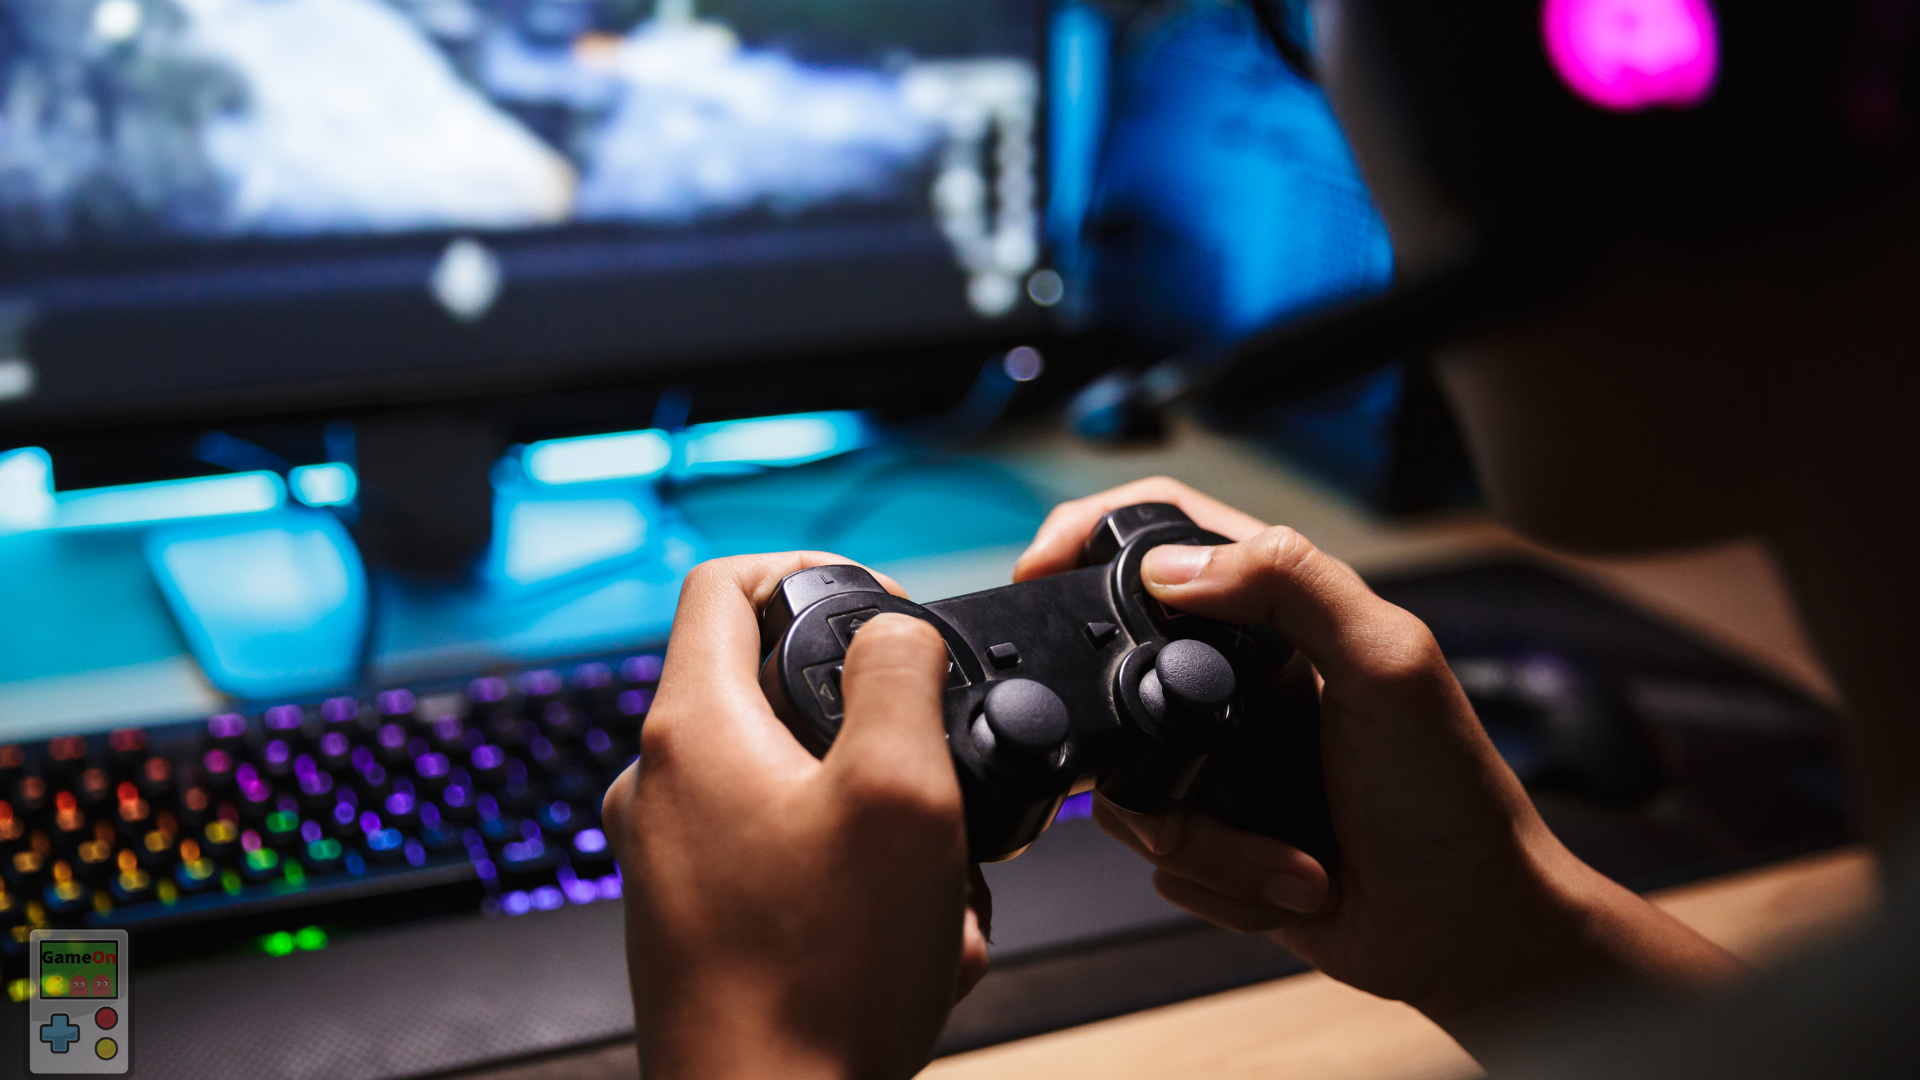
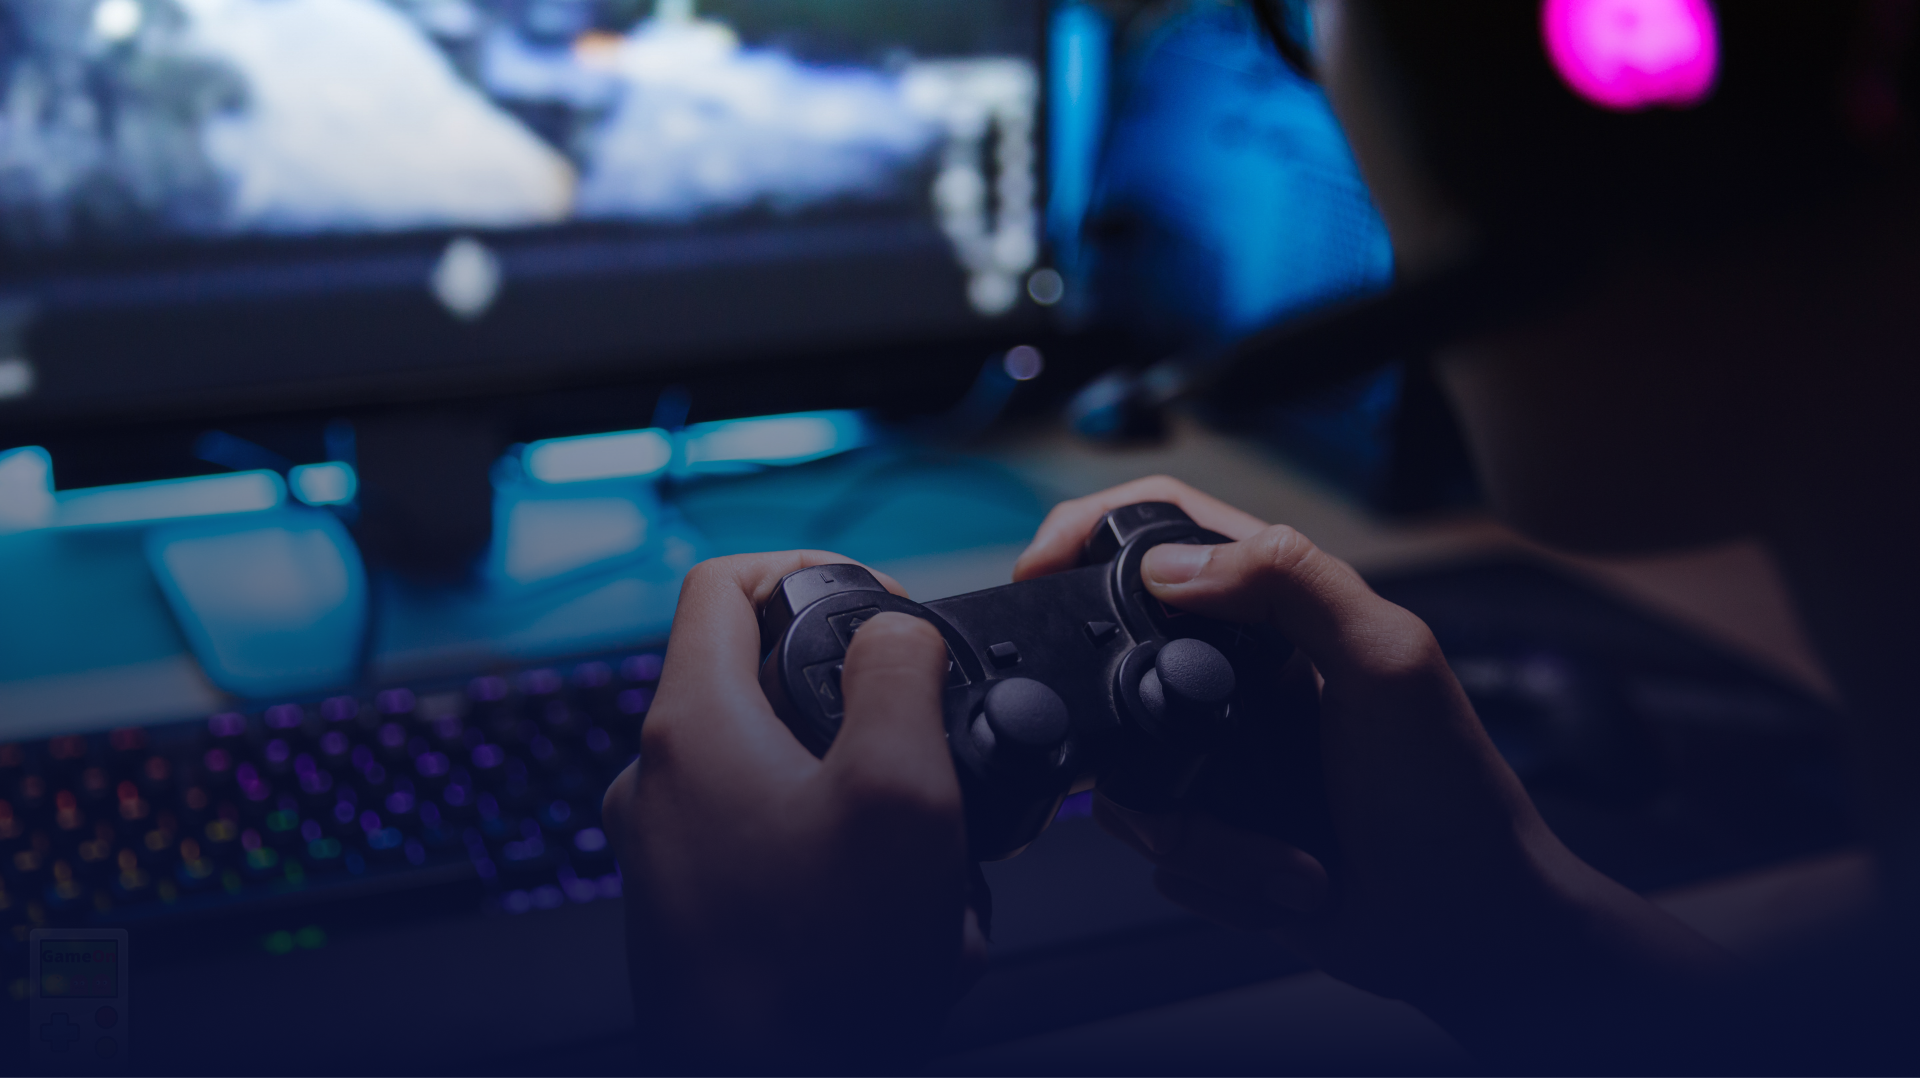
alterado o background

diff --git a/src/screens/AppointmentDetails/index.tsx b/src/screens/AppointmentDetails/index.tsx
@@ -1,33 +1,41 @@
 import React from 'react';
-import {ImageBackground, Text} from 'react-native';
-import { Fontisto} from '@expo/vector-icons'
-import {BorderlessButton} from 'react-native-gesture-handler';
+import { ImageBackground, Text, View } from 'react-native';
+import { Fontisto } from '@expo/vector-icons'
+import { BorderlessButton } from 'react-native-gesture-handler';
 
 import { Background } from '../../components/Background';
 import { Header } from '../../components/Header';
 import { theme } from '../../global/styles/theme';
-import {styles} from './styles'
+import { styles } from './styles'
 import BannerImg from '../../assets/banner2.png';
 export function AppointmentDetails() {
     return (
         <Background>
-            <Header 
-            title="Detalhes"
-            action={
-                <BorderlessButton>
-                    <Fontisto 
-                        name="share"
-                        size={24}
-                        color={theme.colors.primary}
-                    />
-                </BorderlessButton>
-            }
+            <Header
+                title="Detalhes"
+                action={
+                    <BorderlessButton>
+                        <Fontisto
+                            name="share"
+                            size={24}
+                            color={theme.colors.primary}
+                        />
+                    </BorderlessButton>
+                }
             />
 
-            <ImageBackground 
-            source={BannerImg}
-            style={styles.banner}
+            <ImageBackground
+                source={BannerImg}
+                style={styles.banner}
             >
+                <View style={styles.bannerContent}>
+                    <Text style={styles.title}>
+                        Lendários
+                    </Text>
+                    <Text style={styles.subtitle}>
+                        Um herói não precisa falar. Quando ele se for, o mundo falará por ele.
+                    </Text>
+                </View>
 
             </ImageBackground>
         </Background>

diff --git a/src/screens/AppointmentDetails/styles.ts b/src/screens/AppointmentDetails/styles.ts
@@ -7,6 +7,22 @@ export const styles = StyleSheet.create({
     },
     banner: {
         width: "100%",
-        height: 234
+        height: 234,
+    },
+    bannerContent: {
+        flex: 1,
+        justifyContent: 'flex-end',
+        paddingHorizontal: 24,
+        marginBottom: 30
+    },
+    title: {
+        fontSize: 28,
+        fontFamily: theme.fonts.title700,
+        color: theme.colors.heading
+    },
+    subtitle: {
+        fontSize: 13,
+        fontFamily: theme.fonts.text400,
+        color: theme.colors.heading
     }
 })
